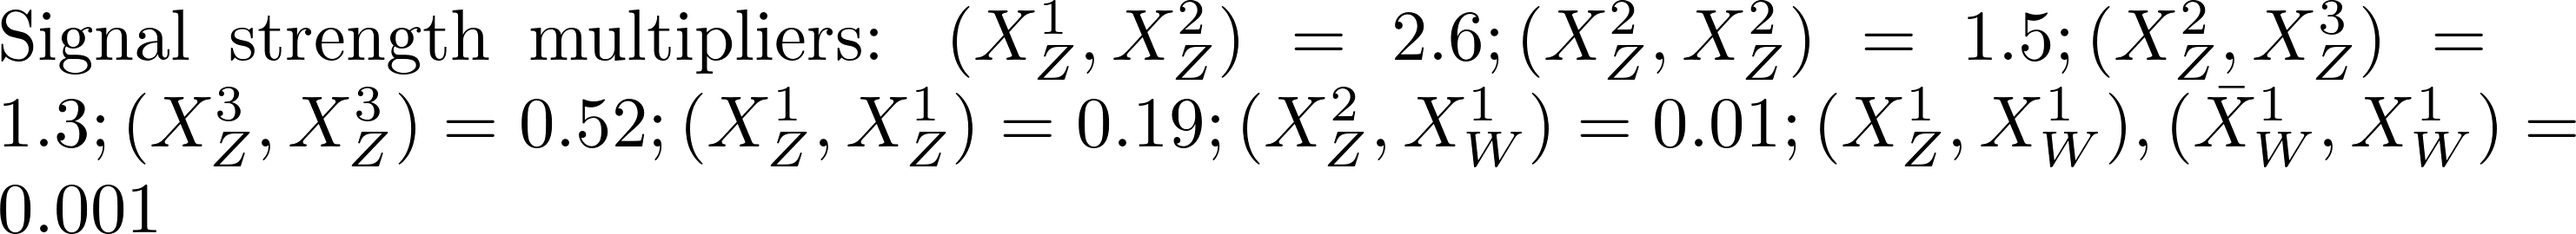
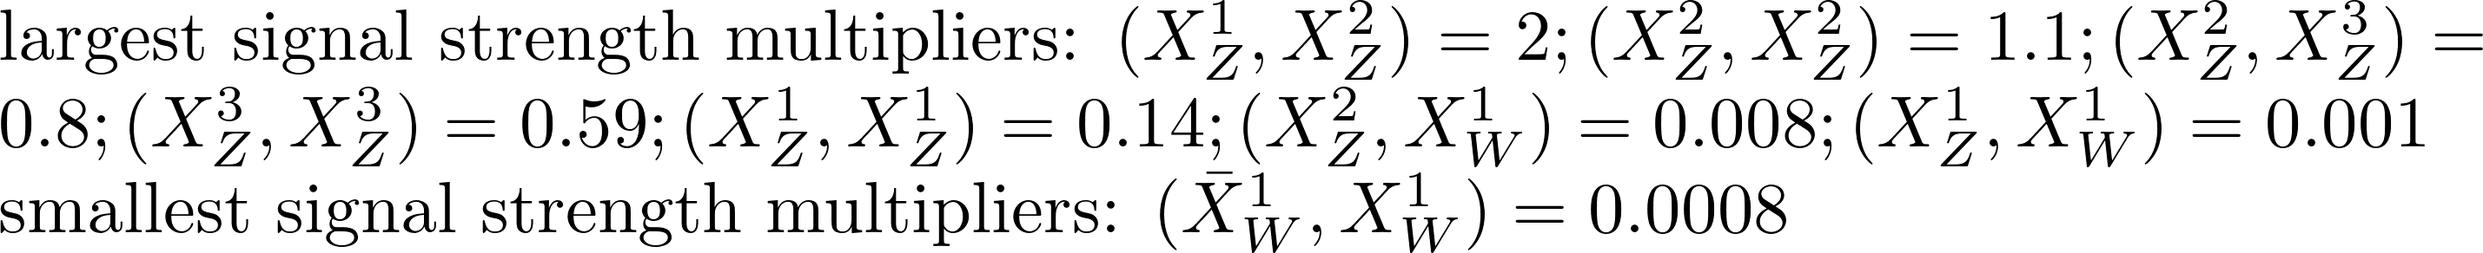
automated update by plotHiscore.py to walk322_4:     K=1.235 TL=16.71 walkerid=427

Changed region(s): [[0.0, 0.0, 1.0, 1.0], [0.7162, 0.6815, 0.7474, 0.7111], [0.3737, 0.9481, 0.4048, 0.9778]]

diff --git a/protomodels/walk322_4/index.html b/protomodels/walk322_4/index.html
@@ -1,27 +1,27 @@
 <html>
 <body>
 <center>
-<table><td><h1>Current best protomodel: <i>K</i>=-0.04, <i>TL</i>=17.85</h1><td><img height=60px src=https://smodels.github.io//protomodels/logos/protomodel_lego.png></table>
+<table><td><h1>Current best protomodel: <i>K</i>=1.24, <i>TL</i>=16.71</h1><td><img height=60px src=https://smodels.github.io//protomodels/logos/protomodel_lego.png></table>
 </center>
-<b><a href=./hiscore.slha>ProtoModel</a> <a href=./pmodel.dict>(dict)</a> produced with <a href=https://smodels.github.io//docs/Validation321>database v3.2.1</a>, allowed_extr 0.0 in walker 403 step 115.</b> <br>
+<b><a href=./hiscore.slha>ProtoModel</a> <a href=./pmodel.dict>(dict)</a> produced with <a href=https://smodels.github.io//docs/Validation321>database v3.2.1</a>, allowed_extr 0.0 in walker 427 step 268.</b> <br>
 <table width=80%>
 <tr><td>
 <br><b>Critics:</b> passed both critics<br>
-<br><b>UL Critic: 1/2 analyses exclude</b><br>
-ATLAS-EXOT-2018-06:EM9:: <span style='color: darkred;'>r<sub>obs</sub>=1.603, r<sub>exp</sub>=1.418</span><br>
-CMS-SUS-20-004:ul:: <span style='color: darkgreen;'>r<sub>obs</sub>=0.533, r<sub>exp</sub>=1.038</span><br>
-ATLAS-SUSY-2018-19:SR_EW:: <span style='color: darkgreen;'>r<sub>obs</sub>=0.324, r<sub>exp</sub>=0.316</span><br>
-<br><b>LLHD Critic:</b> ATLAS-EXOT-2018-06:EM9, CMS-SUS-20-004:CMS-SUS-20-004:matrix.cov, CMS-EXO-20-004:CMS-EXO-20-004:matrix.cov, ATLAS-SUSY-2018-19:SR_EW:: <span style='color: darkred;'>r<sub>obs</sub>=1.01, r<sub>exp</sub>=2.19</span><br>
+<br><b>UL Critic: 0/2 analyses exclude</b><br>
+ATLAS-EXOT-2018-06:EM9:: <span style='color: darkgreen;'>r<sub>obs</sub>=1.317, r<sub>exp</sub>=1.165</span><br>
+CMS-SUS-20-004:ul:: <span style='color: darkgreen;'>r<sub>obs</sub>=0.629, r<sub>exp</sub>=1.204</span><br>
+ATLAS-SUSY-2018-19:SR_EW:: <span style='color: darkgreen;'>r<sub>obs</sub>=0.282, r<sub>exp</sub>=0.274</span><br>
+<br><b>LLHD Critic:</b> CMS-SUS-20-004:CMS-SUS-20-004:matrix.cov, ATLAS-EXOT-2018-06:EM9, CMS-EXO-20-004:CMS-EXO-20-004:matrix.cov, ATLAS-SUSY-2018-19:SR_EW:: <span style='color: darkgreen;'>r<sub>obs</sub>=0.94, r<sub>exp</sub>=2.08</span><br>
 </ul>
-<td><img width=600px src=./texdoc.png?1793808637>
-<br><span style='font-size: smaller; color: darkred;'>Last updated: Wed Nov  4 17:10:37 2026</span>
+<td><img width=600px src=./texdoc.png?1793821615>
+<br><span style='font-size: smaller; color: darkred;'>Last updated: Wed Nov  4 20:46:55 2026</span>
 <br><br><b>8 predictions available. Highest r values are:</b><br><ul>
-<li><a href=https://atlas.web.cern.ch/Atlas/GROUPS/PHYSICS/PAPERS/EXOT-2018-06/>ATLAS-EXOT-2018-06</a>:EM9:TChiISR r=1.60, r<sub>exp</sub>=1.42<br>
-<li><a href=http://cms-results.web.cern.ch/cms-results/public-results/publications/SUS-20-004/>CMS-SUS-20-004</a>:ul:TChiHH r=0.53, r<sub>exp</sub>=1.04<br>
-<li><a href=https://atlas.web.cern.ch/Atlas/GROUPS/PHYSICS/PAPERS/SUSY-2018-19/>ATLAS-SUSY-2018-19</a>:SR_EW:TDTM1F,TDTM2F r=0.32, r<sub>exp</sub>=0.32<br>
-<li><a href=http://cms-results.web.cern.ch/cms-results/public-results/publications/EXO-20-004/>CMS-EXO-20-004</a>:SR_2018_13:TChiISR r=0.24, r<sub>exp</sub>=0.32<br>
+<li><a href=https://atlas.web.cern.ch/Atlas/GROUPS/PHYSICS/PAPERS/EXOT-2018-06/>ATLAS-EXOT-2018-06</a>:EM9:TChiISR r=1.32, r<sub>exp</sub>=1.16<br>
+<li><a href=http://cms-results.web.cern.ch/cms-results/public-results/publications/SUS-20-004/>CMS-SUS-20-004</a>:ul:TChiHH r=0.63, r<sub>exp</sub>=1.20<br>
+<li><a href=https://atlas.web.cern.ch/Atlas/GROUPS/PHYSICS/PAPERS/SUSY-2018-19/>ATLAS-SUSY-2018-19</a>:SR_EW:TDTM1F,TDTM2F r=0.28, r<sub>exp</sub>=0.27<br>
+<li><a href=http://cms-results.web.cern.ch/cms-results/public-results/publications/EXO-20-004/>CMS-EXO-20-004</a>:SR_2018_13:TChiISR r=0.21, r<sub>exp</sub>=0.28<br>
 </table><table style="width:80%">
-<td width=40%><img height=450px src=./mass_hierarchy.png?1793808637><td width=60%><font size=-3><iframe type="text/html" height="350px" width="100%" frameborder="0" src="./rawnumbers.html?1793808637"></iframe></font>
+<td width=40%><img height=450px src=./mass_hierarchy.png?1793821615><td width=60%><font size=-3><iframe type="text/html" height="350px" width="100%" frameborder="0" src="./rawnumbers.html?1793821615"></iframe></font>
 </table>
 </body>
 </html>

diff --git a/protomodels/walk322_4/rawnumbers.html b/protomodels/walk322_4/rawnumbers.html
@@ -1,13 +1,13 @@
 <table>
-<tr><th>Analysis Name</th><th>Type</th><th>Dataset</th><th>Topos</th><th>Observed</th><th>Expected</th><th>Approx &sigma;</th><th>Particles</th>
+<tr><th>Analysis Name</th><th>Type</th><th>Dataset</th><th>Topos</th><th>Observed</th><th>Expected</th><th>Approx Z</th><th>Particles</th>
 </tr>
 <tr><td><a href=https://atlas.web.cern.ch/Atlas/GROUPS/PHYSICS/PAPERS/EXOT-2018-06/>ATLAS-EXOT-2018-06</a></td><td>em</td> <td>EM10</td><td>TChiISR</td><td>413</td><td>359.00 +/- 10.00</td><td style="text-align:right">2.4 &sigma;</td><td style="text-align:right">X<sup>2</sup><sub>Z</sub>, X<sup>1</sup><sub>Z</sub></td></tr>
-<tr><td><a href=http://cms-results.web.cern.ch/cms-results/public-results/publications/SUS-20-004/>CMS-SUS-20-004</a></td><td>comb</td> <td>-</td><td>TChiHH</td><td> 0.2 fb </td><td> 0.2 fb</td><td style="text-align:right">2.2 &sigma;</td><td style="text-align:right">X<sup>3</sup><sub>Z</sub>, X<sup>2</sup><sub>Z</sub></td></tr>
 <tr><td><a href=http://cms-results.web.cern.ch/cms-results/public-results/publications/EXO-20-004/>CMS-EXO-20-004</a></td><td>comb</td> <td>-</td><td>TChiISR</td><td> 5e+01 fb </td><td> 4e+01 fb</td><td style="text-align:right">2.1 &sigma;</td><td style="text-align:right">X<sup>2</sup><sub>Z</sub>, X<sup>1</sup><sub>Z</sub></td></tr>
+<tr><td><a href=http://cms-results.web.cern.ch/cms-results/public-results/publications/SUS-20-004/>CMS-SUS-20-004</a></td><td>comb</td> <td>-</td><td>TChiHH</td><td> 0.2 fb </td><td> 0.2 fb</td><td style="text-align:right">2.1 &sigma;</td><td style="text-align:right">X<sup>3</sup><sub>Z</sub>, X<sup>2</sup><sub>Z</sub></td></tr>
 <tr><td><a href=http://cms-results.web.cern.ch/cms-results/public-results/publications/EXO-19-010/>CMS-EXO-19-010</a></td><td>em</td> <td>SR_nlay5</td><td>TDTM1F, TDTM2F</td><td>6</td><td>3.70 +/- 1.24</td><td style="text-align:right">0.8 &sigma;</td><td style="text-align:right">X<sup>1</sup><sub>W</sub>, X<sup>2</sup><sub>Z</sub>, X<sup>1</sup><sub>Z</sub></td></tr>
 <tr><td><a href=https://atlas.web.cern.ch/Atlas/GROUPS/PHYSICS/PAPERS/SUSY-2018-42/>ATLAS-SUSY-2018-42</a></td><td>em</td> <td>SR200_High_long</td><td>TDTM1F, TDTM2F</td><td>7</td><td>5.50 +/- 0.60</td><td style="text-align:right">0.5 &sigma;</td><td style="text-align:right">X<sup>1</sup><sub>W</sub>, X<sup>2</sup><sub>Z</sub>, X<sup>1</sup><sub>Z</sub></td></tr>
 <tr><td><a href=https://atlas.web.cern.ch/Atlas/GROUPS/PHYSICS/PAPERS/SUSY-2016-06/>ATLAS-SUSY-2016-06</a></td><td>em</td> <td>SR_EW</td><td>TDTM1F, TDTM2F</td><td>9</td><td>11.80 +/- 3.10</td><td style="text-align:right">-0.7 &sigma;</td><td style="text-align:right">X<sup>1</sup><sub>W</sub>, X<sup>2</sup><sub>Z</sub>, X<sup>1</sup><sub>Z</sub></td></tr>
 </table>
 <table style='color:grey'>
-<tr><th>Not in Best Combo</th><th>Type</th><th>Dataset</th><th>Topos</th><th>Observed</th><th>Expected</th><th>Approx &sigma;</th><th>Particles</th><tr><td><a href=https://atlas.web.cern.ch/Atlas/GROUPS/PHYSICS/PAPERS/SUSY-2018-19/>ATLAS-SUSY-2018-19</a></td><td>em</td> <td>SR_EW</td><td>TDTM1F, TDTM2F</td><td>3</td><td>3.00 +/- 0.70</td><td style="text-align:right">-0.2 &sigma;</td><td style="text-align:right">X<sup>1</sup><sub>W</sub>, X<sup>2</sup><sub>Z</sub>, X<sup>1</sup><sub>Z</sub></td></tr>
+<tr><th>Not in Best Combo</th><th>Type</th><th>Dataset</th><th>Topos</th><th>Observed</th><th>Expected</th><th>Approx Z</th><th>Particles</th><tr><td><a href=https://atlas.web.cern.ch/Atlas/GROUPS/PHYSICS/PAPERS/SUSY-2018-19/>ATLAS-SUSY-2018-19</a></td><td>em</td> <td>SR_EW</td><td>TDTM1F, TDTM2F</td><td>3</td><td>3.00 +/- 0.70</td><td style="text-align:right">-0.2 &sigma;</td><td style="text-align:right">X<sup>1</sup><sub>W</sub>, X<sup>2</sup><sub>Z</sub>, X<sup>1</sup><sub>Z</sub></td></tr>
 </table>
